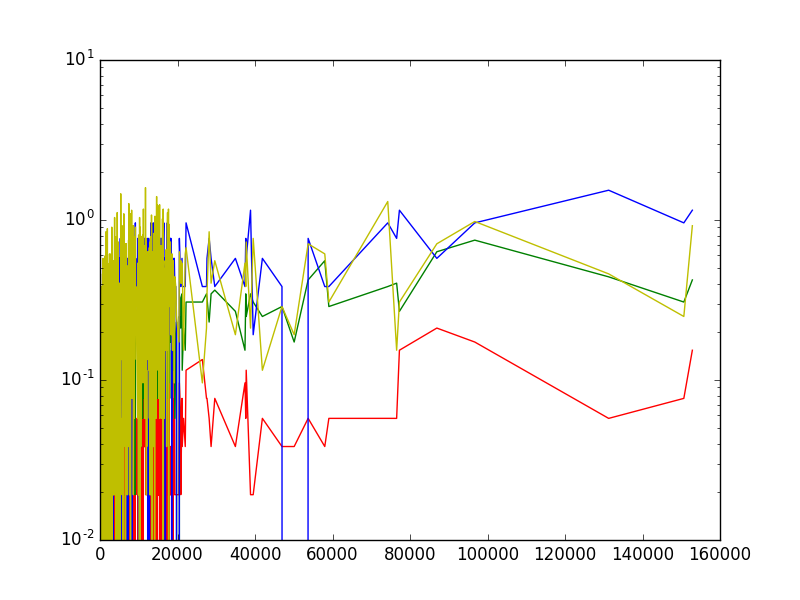
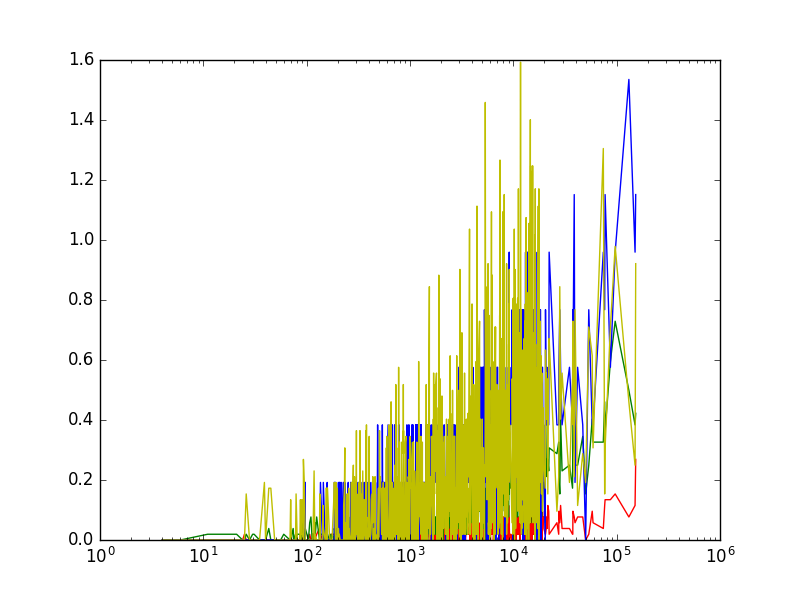
finalize evaluation

diff --git a/main.py b/main.py
@@ -65,6 +65,10 @@ def collaborative_filtering_recommender(UAM, user, K):
                 counter[artist_idx] = UAM[neighbour, artist_idx] * (len(neighbours_idx) - idx)
     return sorted(counter, key=counter.get, reverse=True)
 
+def hybrid_cf_po_recommender(UAM, user, K):
+    collaborative_filtering_recommender
+
+
 def start_evaluation_with_multithreading():
     plot_1 = plt.figure()
     plot_2 = plt.figure()
@@ -91,7 +95,6 @@ def start_evaluation_with_multithreading():
 def start_cold_start_evaluation_with_multithreading():
     plot_3 = plt.figure()
     cs_plot = plot_3.add_subplot(111)
-    cs_plot.set_yscale('log')
 
     threads = [threading.Thread(target=evaluation.evaluate_cold_start, args=(random_artist_recommender, UAM, cs_plot, 'r')),
         threading.Thread(target=evaluation.evaluate_cold_start, args=(random_user_recommender, UAM, cs_plot, 'g')),
